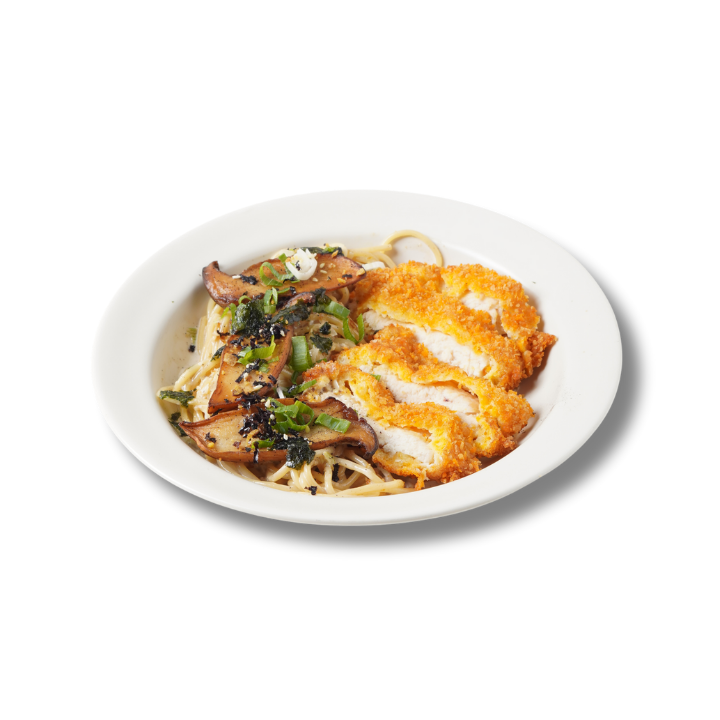
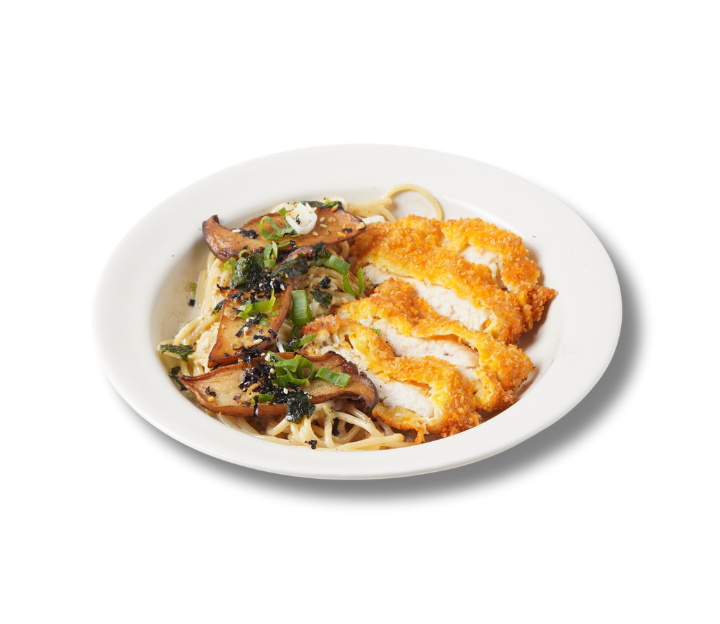
Readjust images and add a new menu category

Changed region(s): [[0.1528, 0.274, 0.8861, 0.8221], [0.825, 0.3654, 0.8556, 0.4263], [0.7944, 0.3349, 0.825, 0.3654]]

diff --git a/src/app/menu/ChooseMenu/ChooseMenu.js b/src/app/menu/ChooseMenu/ChooseMenu.js
@@ -5,7 +5,7 @@ import { Box, useMediaQuery } from '@mui/material'
 import MenuDetailsCard from '@/components/MenuDetailsCard'
 import OrderCard from '@/components/OrderCard'
 import { imageUrls, gradients, outlets } from '@/database/page'
-import { redirect } from 'next/navigation'
+import { useRouter } from 'next/navigation'
 import { MenuBook } from '@mui/icons-material'
 import useLoadingStore from '@/store/LoadingStore'
 
@@ -24,6 +24,7 @@ const initialPositions = [
 
 const ChooseMenu = () => {
     const isSmallScreen = useMediaQuery('(max-width:600px)')
+    const router = useRouter()
     const [gradientIndex, setGradientIndex] = useState(0)
     const [positions, setPositions] = useState(initialPositions)
     const [highlightIndex, setHighlightIndex] = useState(2)
@@ -43,6 +44,7 @@ const ChooseMenu = () => {
     const visibleCount = 5
     const totalImages = imageUrls.length
     const pageLoading = useLoadingStore((state) => state.pageLoading)
+    const setPageLoading = useLoadingStore((state) => state.setPageLoading)
     const handleHighlightLeft = () => {
         if (highlightIndex > 0 && !isSmallScreen) {
             if (isAnimating) return
@@ -217,7 +219,8 @@ const ChooseMenu = () => {
     }
 
     const handleOpenMenu = () => {
-        redirect("/menu-details")
+        setPageLoading(true)
+        router.push("/menu-details")
     }
 
     const rotation = gradientIndex * 40
@@ -302,86 +305,88 @@ const ChooseMenu = () => {
                 }}>
                 <LowerItem handleHighlightRight={handleHighlightRight} handleHighlightLeft={handleHighlightLeft} highlightIndex={highlightIndex} gradientIndex={gradientIndex} slide={slide2} handleOpenCard={handleOpenCard} selectedMenu={selectedMenu2} totalImages={totalImages} visibleCount={visibleCount} startIndex={startIndex2} handleMovesRight={handleMovesRight} handleMovesLeft={handleMovesLeft} imageUrls={imageUrls}></LowerItem>
             </Box>)}
-            <Box
-                sx={{
-                    display: isSmallScreen ? "flex" : "none",
-                    zIndex: 99,
-                    width: "50%",
-                    position: "absolute",
-                    ml: 27.5,
-                    bottom: "45%",
-                    "& button": {
-                        all: "unset",
-                        height: "30px",
-                        width: "100%",
-                        fontSize: "16px",
-                        background: "transparent",
-                        border: "none",
-                        position: "relative",
-                        color: "#f0f0f0",
-                        cursor: "pointer",
-                        zIndex: 1,
-                        padding: "10px 20px",
-                        display: "flex",
-                        alignItems: "center",
-                        justifyContent: "center",
-                        whiteSpace: "nowrap",
-                        userSelect: "none",
-                        WebkitUserSelect: "none",
-                        touchAction: "manipulation",
-                        gap: "0.3em",
-                        "&::before": {
-                            content: '""',
-                            position: "absolute",
-                            bottom: 0,
-                            right: 0,
-                            zIndex: -888,
-                            transition: "all .4s",
-                            transform: "translate(0%, 0%)",
+            {!pageLoading.loading && (
+                <Box
+                    sx={{
+                        display: isSmallScreen ? "flex" : "none",
+                        zIndex: 99,
+                        width: "50%",
+                        position: "absolute",
+                        ml: 27.5,
+                        bottom: "45%",
+                        "& button": {
+                            all: "unset",
+                            height: "30px",
                             width: "100%",
-                            height: "100%",
-                            background: "rgba(0,0,0,.1)",
-                            borderRadius: "10px",
+                            fontSize: "16px",
+                            background: "transparent",
+                            border: "none",
+                            position: "relative",
+                            color: "#f0f0f0",
+                            cursor: "pointer",
+                            zIndex: 1,
+                            padding: "10px 20px",
+                            display: "flex",
+                            alignItems: "center",
+                            justifyContent: "center",
+                            whiteSpace: "nowrap",
+                            userSelect: "none",
+                            WebkitUserSelect: "none",
+                            touchAction: "manipulation",
+                            gap: "0.3em",
+                            "&::before": {
+                                content: '""',
+                                position: "absolute",
+                                bottom: 0,
+                                right: 0,
+                                zIndex: -888,
+                                transition: "all .4s",
+                                transform: "translate(0%, 0%)",
+                                width: "100%",
+                                height: "100%",
+                                background: "rgba(0,0,0,.1)",
+                                borderRadius: "10px",
+                            },
+                            "&::after": {
+                                content: '""',
+                                position: "absolute",
+                                bottom: 2,
+                                right: 2,
+                                zIndex: -888,
+                                transition: "all .4s",
+                                transform: "translate(10px, 10px)",
+                                width: "18px",
+                                height: "18px",
+                                background: "#aaaaaa85",
+                                backdropFilter: "blur(5px)",
+                                WebkitBackdropFilter: "blur(5px)",
+                                borderRadius: "50px",
+                            },
+                            "&:hover::before": {
+                                transform: "translate(5%, 20%)",
+                                width: "110%",
+                                height: "110%",
+                            },
+                            "&:hover::after": {
+                                borderRadius: "10px",
+                                transform: "translate(0, 0)",
+                                width: "100%",
+                                height: "100%",
+                            },
+                            "&:active::after": {
+                                transition: "0s",
+                                transform: "translate(0, 5%)",
+                            },
                         },
-                        "&::after": {
-                            content: '""',
-                            position: "absolute",
-                            bottom: 2,
-                            right: 2,
-                            zIndex: -888,
-                            transition: "all .4s",
-                            transform: "translate(10px, 10px)",
-                            width: "18px",
-                            height: "18px",
-                            background: "#aaaaaa85",
-                            backdropFilter: "blur(5px)",
-                            WebkitBackdropFilter: "blur(5px)",
-                            borderRadius: "50px",
-                        },
-                        "&:hover::before": {
-                            transform: "translate(5%, 20%)",
-                            width: "110%",
-                            height: "110%",
-                        },
-                        "&:hover::after": {
-                            borderRadius: "10px",
-                            transform: "translate(0, 0)",
-                            width: "100%",
-                            height: "100%",
-                        },
-                        "&:active::after": {
-                            transition: "0s",
-                            transform: "translate(0, 5%)",
-                        },
-                    },
-                }}
-                onClick={handleOpenMenu}
-            >
-                <button role="button">
-                    <MenuBook sx={{ color: '#c72026' }} />
-                    <p style={{ fontFamily: "Nunito", fontWeight: 'bolder', color: '#c72026' }}>See Full Menu</p>
-                </button>
-            </Box>
+                    }}
+                    onClick={handleOpenMenu}
+                >
+                    <button role="button">
+                        <MenuBook sx={{ color: '#c72026' }} />
+                        <p style={{ fontFamily: "Nunito", fontWeight: 'bolder', color: '#c72026' }}>See Full Menu</p>
+                    </button>
+                </Box>
+            )}
         </Box >
     )
 }

diff --git a/src/database/page.tsx b/src/database/page.tsx
@@ -96,6 +96,23 @@ export const imageUrls = [
 
 export const menuCategory: Array<MenuCategoryCard> = [
     {
+        CategoryName: "Fusion Pasta",
+        MenuList: [
+            {
+                Name: "Japanese Chicken Creamy Miso",
+                Price: 48000,
+                Description: "A comforting fusion of savory miso and silky cream, creating a rich umami flavor with a touch of sweetness. This Japanese-inspired delight delivers a smooth and balanced taste, perfect for those who crave warmth and depth in every sip!",
+                ImageUrl: "/menu2/87.png",
+            },
+            {
+                Name: "Spaghetti Aglio Olio Chili Oil",
+                Price: 44500,
+                Description: "A fusion of aglio e olio and chili oil, featuring spaghetti tossed with succulent chicken thigh, mushrooms, butter, parmesan cheese, homemade chili oil, and fresh parsley.",
+                ImageUrl: "/menu2/19.png",
+            }
+        ]
+    },
+    {
         CategoryName: "Creamy Sauced Pasta",
         MenuList: [
             {
@@ -147,12 +164,6 @@ export const menuCategory: Array<MenuCategoryCard> = [
                 ImageUrl: "/menu2/11.png",
             },
             {
-                Name: "Japanese Creamy Miso",
-                Price: 38000,
-                Description: "A comforting fusion of savory miso and silky cream, creating a rich umami flavor with a touch of sweetness. This Japanese-inspired delight delivers a smooth and balanced taste, perfect for those who crave warmth and depth in every sip!",
-                ImageUrl: "/menu2/87.png",
-            },
-            {
                 Name: "Fusilli Spicy Tuna Cream",
                 Price: 51350,
                 Description: "Spiral fusilli pasta coated in a spicy, creamy sauce, mixed with tender tuna chunks, fresh chili, and melted cheese for a perfect balance of heat and richness.",
@@ -198,12 +209,6 @@ export const menuCategory: Array<MenuCategoryCard> = [
                 Price: 43550,
                 Description: "Twisted fusilli pasta mixed with tender tuna chunks, garlic, chili, parsley, and cheese. A spicy and savory delight with an authentic touch.",
                 ImageUrl: "/menu2/8.png",
-            },
-            {
-                Name: "Spaghetti Aglio Chili Oil",
-                Price: 54375,
-                Description: "A fusion of aglio e olio and chili oil, featuring spaghetti tossed with succulent chicken thigh, mushrooms, butter, parmesan cheese, homemade chili oil, and fresh parsley.",
-                ImageUrl: "/menu2/19.png",
             }
         ]
     },

diff --git a/src/app/home/page.tsx b/src/app/home/page.tsx
@@ -117,7 +117,7 @@ export default function Home() {
                             height: "100vh",
                             width: "100vw",
                             backgroundImage: `url("https://res.cloudinary.com/dxyxg3egs/image/upload/v1757009917/skypasta/home-cover-2_jgixdt.jpg")`,
-                            backgroundSize: "100% auto",
+                            backgroundSize: { xs: "auto 100%", md: "100% auto" },
                             backgroundPosition: "30% 43%",
                             backgroundRepeat: "no-repeat",
                             position: "relative",
@@ -138,11 +138,12 @@ export default function Home() {
                                 position: "absolute",
                                 textAlign: "center",
                                 width: "100%",
-                                top: { xs: "30%", md: "35%" },
+                                top: { xs: "42%", md: "35%" },
                                 color: "white",
                                 fontWeight: "bold",
                                 textShadow: "40px 40px 80px rgba(0, 0, 0, 1)",
-                                fontSize: { xs: 24, md: 60 },
+                                fontSize: { xs: 32, md: 60 },
+                                backgroundColor: { xs: "rgba(0, 0, 0, 0.3)", md: "rgba(0, 0, 0, 0)" },
                             }}
                         >Home of Fusion Pasta</Typography>
                         <Typography
@@ -150,10 +151,11 @@ export default function Home() {
                                 position: "absolute",
                                 textAlign: "center",
                                 width: "100%",
-                                top: { xs: "30%", md: "47%" },
+                                top: { xs: "49.5%", md: "47%" },
                                 color: "white",
                                 textShadow: "40px 40px 80px rgba(0, 0, 0, 1)",
-                                fontSize: { xs: 24, md: 20 },
+                                fontSize: { xs: 18, md: 20 },
+                                backgroundColor: { xs: "rgba(0, 0, 0, 0.3)", md: "rgba(0, 0, 0, 0)" },
                             }}
                         >The Perfect Pasta Experience</Typography>
                         <Box

diff --git a/src/app/menu-details/page.tsx b/src/app/menu-details/page.tsx
@@ -12,7 +12,7 @@ export default function MenuDetails() {
     const categoryRefs = useRef(menuCategory.map(() => React.createRef<HTMLDivElement>()))
     const setPageLoading = useLoadingStore((state) => state.setPageLoading)
     const [openCard, setOpenCard] = useState<boolean>(false)
-    const [selectedCategory, setSelectedCategory] = useState<string>("Creamy Sauced Pasta")
+    const [selectedCategory, setSelectedCategory] = useState<string>("Fusion Pasta")
     const [selectedMenu, setSelectedMenu] = useState<MenuCard>()
     const [openOutletList, setOpenOutletList] = useState<boolean>(false)
     const [openOrderList, setOpenOrderList] = useState<boolean>(false)
